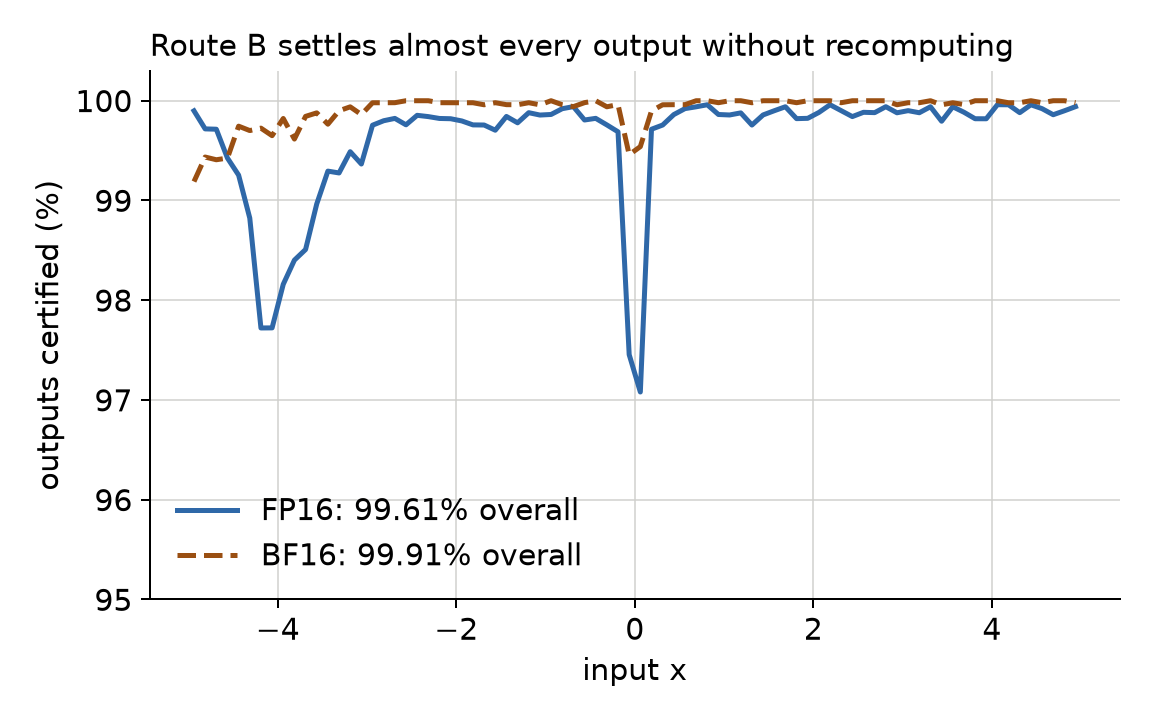
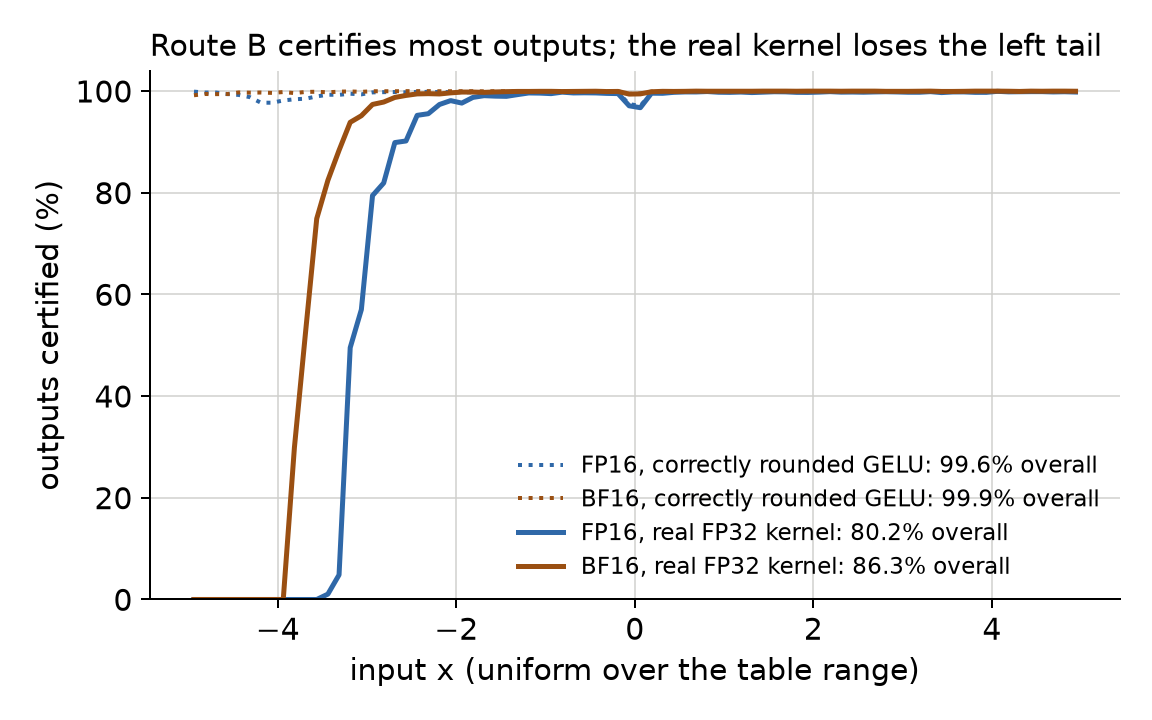
fix(route_b): make the certify target a required argument
The default target of certify() had changed from the correctly rounded
GELU to the real kernel. scripts/make_figures.py called it with no
target, so a fresh run drew the kernel target under the old title and
axis range, and cut most of the left tail off the chart.

certify() now has no default, so each caller states its reference. The
figure draws both targets. Bench.run and Bench.mm reject tensors that
are not contiguous, because the kernels index with stride 1.

diff --git a/scripts/make_figures.py b/scripts/make_figures.py
@@ -73,16 +73,18 @@ def fig_route_b_certified(n):
     edges = np.linspace(-5, 5, 81)
     mid = (edges[:-1] + edges[1:]) / 2
     fig, ax = plt.subplots(figsize=(6.4, 4.0))
-    for fmt, color, ls in (("FP16", BLUE, "-"), ("BF16", ORANGE, "--")):
-        ok, _ = route_b.certify(tab, x32, fmt)
-        idx = np.digitize(x32, edges) - 1
-        rate = [100 * ok[idx == i].mean() for i in range(len(mid))]
-        ax.plot(mid, rate, ls, color=color, lw=2, label=f"{fmt}: {100 * ok.mean():.2f}% overall")
-    ax.set_xlabel("input x")
+    idx = np.digitize(x32, edges) - 1
+    # colour = format, line style = target: solid for the real kernel, dotted for the correctly rounded GELU
+    for target, ls, lw, what in (("exact", ":", 1.6, "correctly rounded GELU"), ("kernel", "-", 2, "real FP32 kernel")):
+        for fmt, color in (("FP16", BLUE), ("BF16", ORANGE)):
+            ok, _ = route_b.certify(tab, x32, fmt, target)
+            rate = [100 * ok[idx == i].mean() for i in range(len(mid))]
+            ax.plot(mid, rate, ls, color=color, lw=lw, label=f"{fmt}, {what}: {100 * ok.mean():.1f}% overall")
+    ax.set_xlabel("input x (uniform over the table range)")
     ax.set_ylabel("outputs certified (%)")
-    ax.set_title("Route B settles almost every output without recomputing", fontsize=12, loc="left")
-    ax.set_ylim(95, 100.3)
-    ax.legend(frameon=False, loc="lower left")
+    ax.set_title("Route B certifies most outputs; the real kernel loses the left tail", fontsize=12, loc="left")
+    ax.set_ylim(0, 104)
+    ax.legend(frameon=False, loc="lower right", fontsize=9)
     save(fig, "route_b_certified.png")
 
 

diff --git a/gelucheck/gpu.py b/gelucheck/gpu.py
@@ -331,6 +331,7 @@ class Bench:
         """Launch the kernels of one variant. Returns nothing: read counts() afterwards."""
         n, mode, f = x.numel(), VARIANTS.index(variant), faults
         assert n <= self.n and x.dtype == torch.float32 and y.dtype == torch.float16 and x.dim() == y.dim() == 1
+        assert x.is_contiguous() and y.is_contiguous() and y.numel() == n, "the kernels index with stride 1"
         assert fused or mode, "a separate checker needs a check"
         if mode:
             self.ctr.zero_()
@@ -349,6 +350,7 @@ class Bench:
         mode = MM_VARIANTS.index(variant)
         (M, K), N = a.shape, b.shape[1]
         assert M * N <= self.n and a.dtype == b.dtype == c.dtype == torch.float16
+        assert a.is_contiguous() and b.is_contiguous() and c.is_contiguous() and c.shape == (M, N)
         BM = 16 if M <= 16 else TILE
         if mode >= 2:
             self.ctr.zero_()

diff --git a/gelucheck/route_b.py b/gelucheck/route_b.py
@@ -117,8 +117,11 @@ def evaluate(tab, x32):
     return p, j
 
 
-def certify(tab, x32, fmt, target="kernel"):
+def certify(tab, x32, fmt, target):
     """Returns (certified mask, predicted 16-bit encodings). Zero and sign-ambiguous cases are not certified.
+
+    target is "kernel" or "exact" (see the module docstring). It has no default: the two give different
+    predictions of what is safe, and a caller must say which reference it checks against.
 
     The cell test runs in FP32, operation for operation as in the GPU kernel. The cell midpoints are exact
     in FP32, and SLACK in the margin covers the rounding of the two subtractions.

diff --git a/tests/test_gelucheck.py b/tests/test_gelucheck.py
@@ -88,6 +88,15 @@ def test_evaluate_keeps_the_input_shape():
         assert not ok[0, 0, :3].any() and not ok[(x < -5) | (x >= 5)].any()
 
 
+def test_certify_needs_an_explicit_target():
+    tab = route_b.build(-5.0, 5.0, 1 / 16)
+    x = np.zeros(4, np.float32)
+    with pytest.raises(TypeError):
+        route_b.certify(tab, x, "FP16")
+    with pytest.raises(KeyError):
+        route_b.certify(tab, x, "FP16", "correct")
+
+
 def test_build_rejects_knots_that_are_not_exact():
     for lo, hi, h in ((-5.0, 5.0, 0.1), (-5.0, 5.03, 1 / 16), (-5.01, 5.0, 1 / 16)):
         with pytest.raises(ValueError):

diff --git a/README.md b/README.md
@@ -123,6 +123,11 @@ outputs only: the second pass for the other outputs is a duplicate.
   kernel (246 of 400,000 for FP16 normal inputs, 59,757 for uniform inputs), so `exact` is not a safe reference
   for a real kernel. The uniform numbers drop because the kernel loses accuracy for x below about −3, where
   `1 + erf` cancels. Model inputs are close to normal, so the normal column is the one that matters.
+
+  ![Route B certification rate by input](figures/route_b_certified.png)
+
+  The figure shows where the loss is: for uniform inputs, the kernel target certifies almost nothing below about
+  x = −3.5 (solid lines), and the exact target certifies almost everything (dotted lines).
 - **The checksum works.** In 200,000 trials, every block with one wrong output was caught. For a fixed pair of
   wrong outputs, 325 of 20 million trials escaped (1.6 × 10⁻⁵). That is close to the theoretical bound
   2⁻¹⁶ ≈ 1.5 × 10⁻⁵.
@@ -151,7 +156,6 @@ of 2.25, so its certified shares (99.24% and 80.69%) are slightly above the tabl
 Two results shape the design. First, a checker that predicts the correctly rounded value raises false alarms
 on a correct kernel. Second, two compiled versions of the same formula give different bits, so a duplicate must
 be the same compiled code as the kernel that it checks.
-![Route B certification rate by input](figures/route_b_certified.png)
 
 ### Route A is the weak link
 
@@ -248,7 +252,7 @@ The proposal sources, slides and the gap brief are kept in the course notes, not
 ```bash
 python -m venv .venv && .venv/bin/pip install -r requirements.txt
 export PYTHONPATH=.:scripts
-.venv/bin/python -m pytest -q                      # 9 CPU tests, about 1 s (GPU tests skip without Triton)
+.venv/bin/python -m pytest -q                      # 10 CPU tests, about 1 s (GPU tests skip without Triton)
 .venv/bin/python scripts/run_route_b.py            # bound, certification, checksum (about 4 s)
 .venv/bin/python scripts/run_route_a.py            # tolerance trade-off, block size, formats
 .venv/bin/python scripts/check_proposal_math.py    # formulas from the proposal
